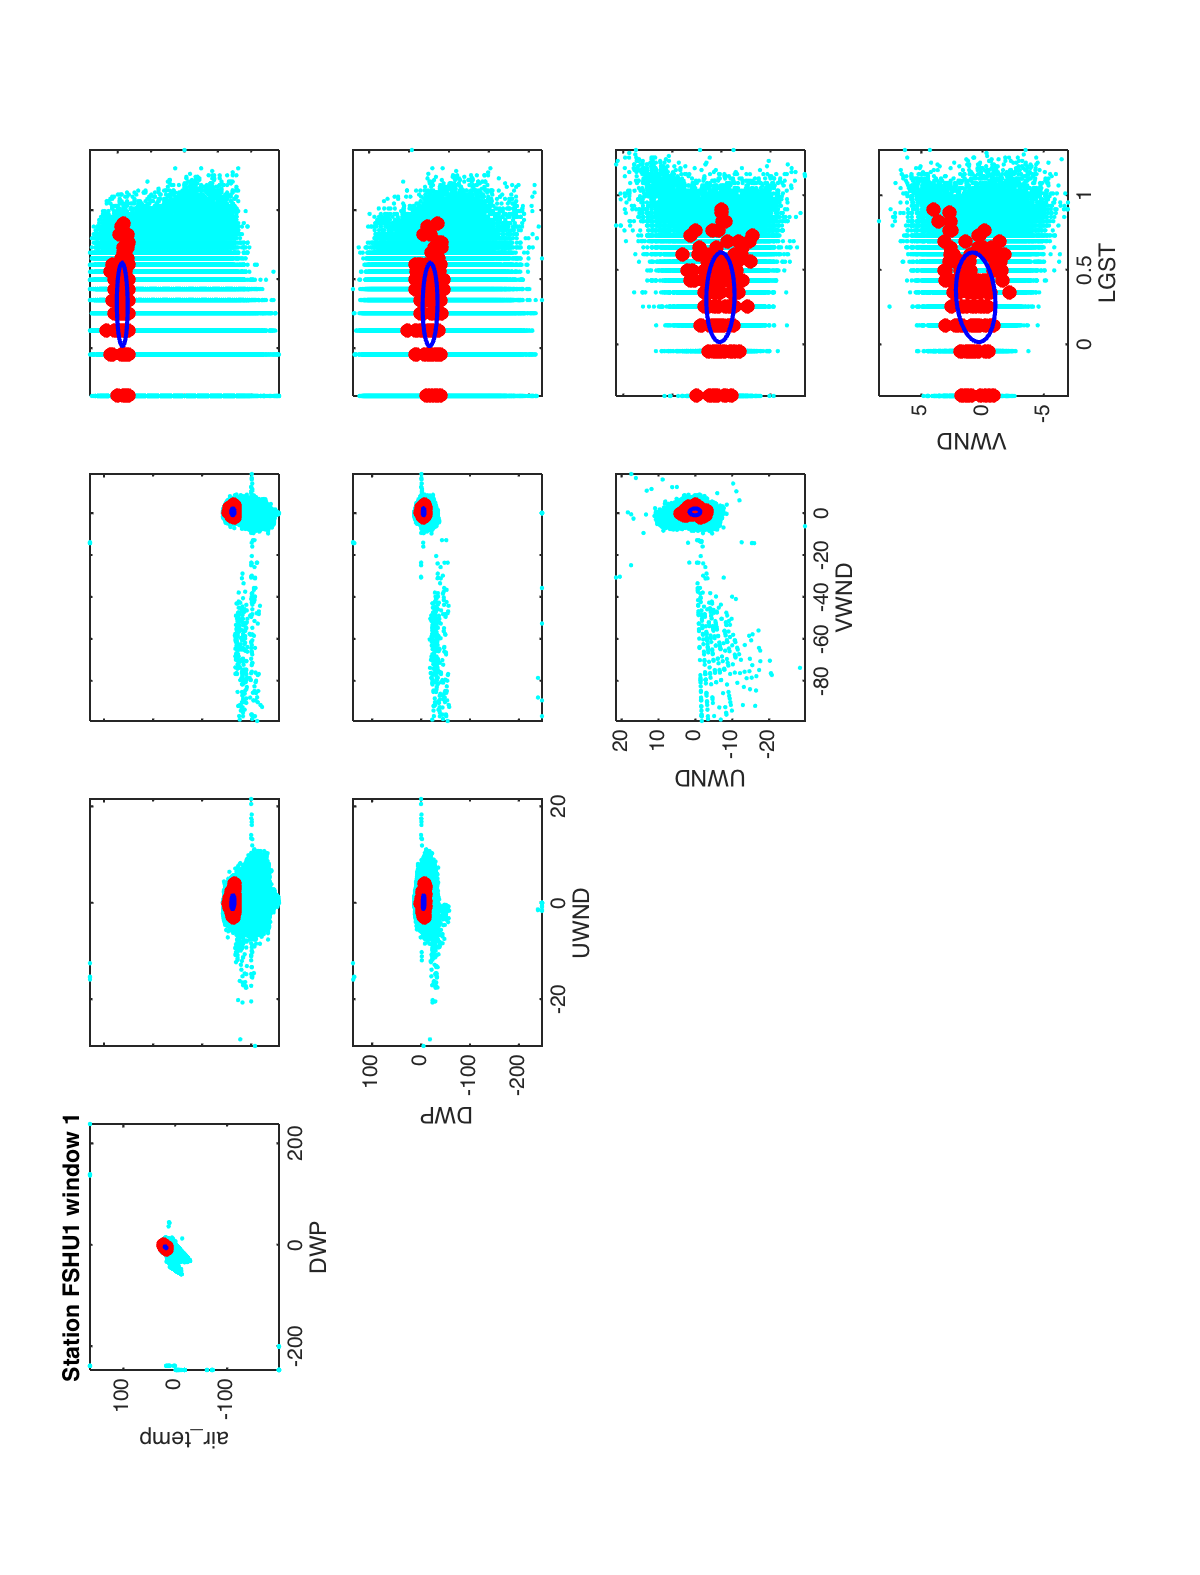
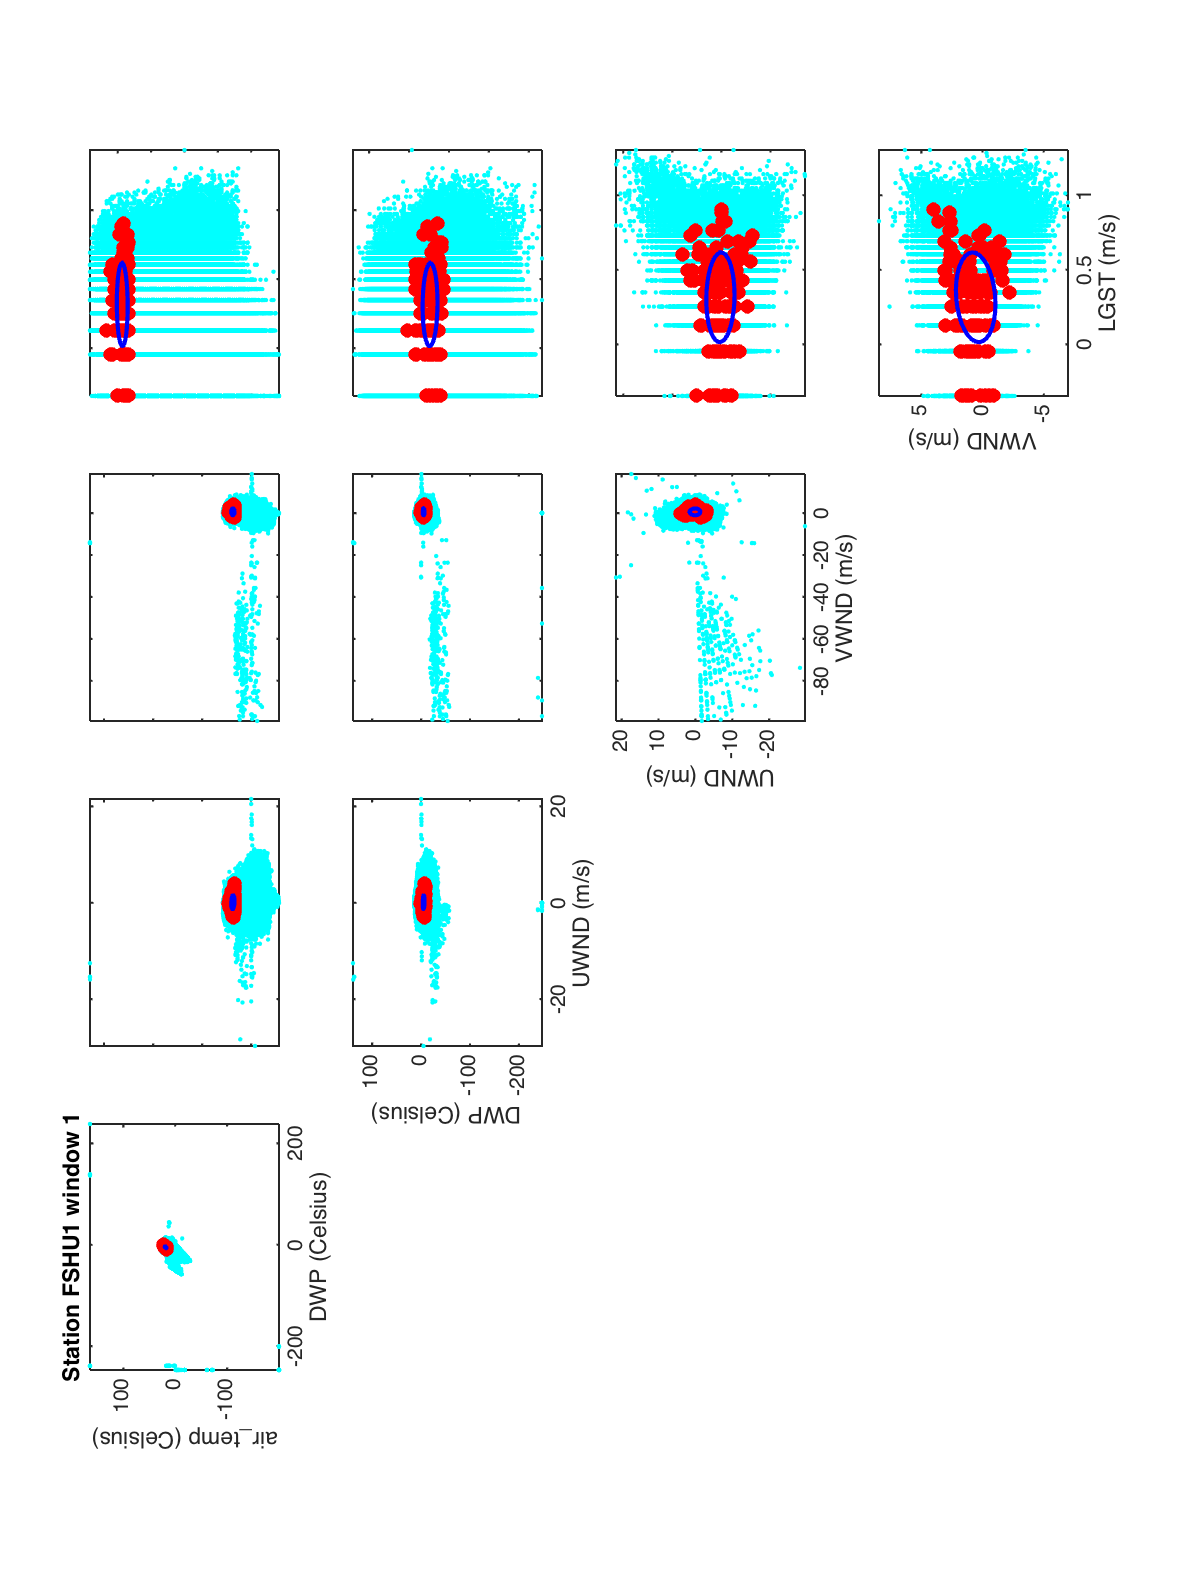
added plot label units

diff --git a/aimefournier/matlab/analXls.m b/aimefournier/matlab/analXls.m
@@ -257,8 +257,8 @@
 		      if k == 1
 			 title(sprintf('Station %s window %d', sta(i).name, l))
 		      end
-		      xlabel(strrep(datList{j}, '_', '\_'))
-		      ylabel(strrep(datList{k}, '_', '\_'))
+		      xlabel(sprintf('%s (%s)', strrep(datList{j}, '_', '\_'), sta(i).u{j}))
+		      ylabel(sprintf('%s (%s)', strrep(datList{k}, '_', '\_'), sta(i).u{k}))
 		   else
 		      set(gca, 'XTickLabel', '', 'YTickLabel', '')
 		   end
@@ -271,7 +271,7 @@
 	     print(n, '-dpng', sprintf('figures/%s_w%d_scat', sta(i).name, l))
 	     n = n + 1;
 	  else
-	     fprintf('%s_%d has no good data\n', sta(i).name, l)
+	     fprintf('\n%s_%d has no good data\n\n', sta(i).name, l)
 	  end
        end
     end, clear a f g i ib j k kd kt ku kv l m
